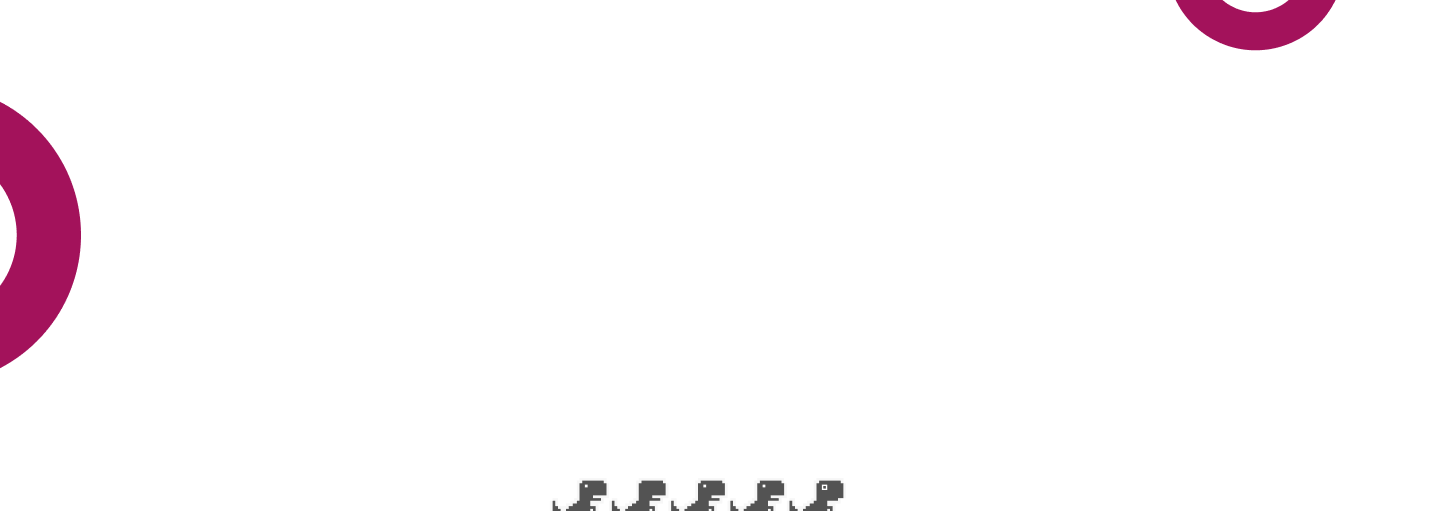
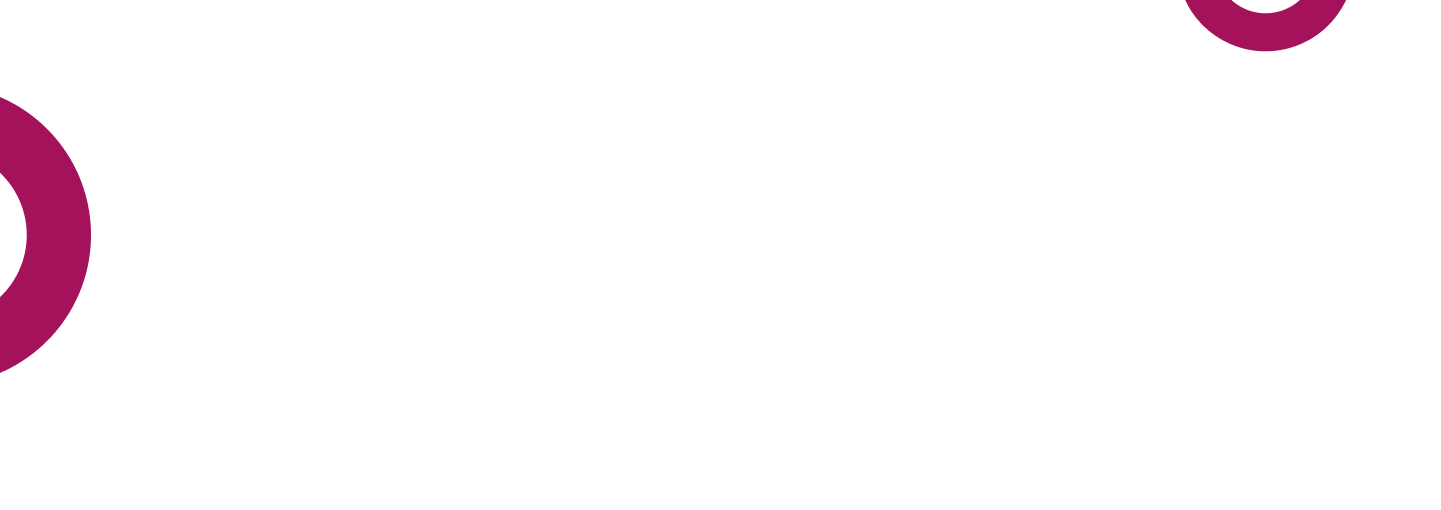
fix img dino

diff --git a/src/screens/services/webDevelopment/components/NeedAnUpdate.jsx b/src/screens/services/webDevelopment/components/NeedAnUpdate.jsx
@@ -15,6 +15,14 @@ const NeedAnUpdate = () => {
         src="/assets/images/figures/webDevelopment/bloque3.png"
         alt="background-dino"
       />
+      <Box className={classes.dino}>
+        <img
+          loading="lazy"
+          src="/assets/images/figures/webDevelopment/dino.png"
+          alt="background-dino"
+        />
+      </Box>
+
       <img
         loading="lazy"
         className={classes.computer}

diff --git a/src/screens/services/webDevelopment/styles/NeedAnUpdate.js b/src/screens/services/webDevelopment/styles/NeedAnUpdate.js
@@ -19,6 +19,18 @@ const styles = (theme) => ({
       display: 'none',
     },
   },
+  dino: {
+    position: 'absolute',
+    zIndex: 1000,
+    margin: '0 auto',
+    top: -32,
+    left: 0,
+    display: 'flex',
+    justifyContent: 'center',
+    height: 'auto',
+    width: '100%',
+    objectFit: 'cover',
+  },
   computer: {
     position: 'absolute',
     top: 0,
